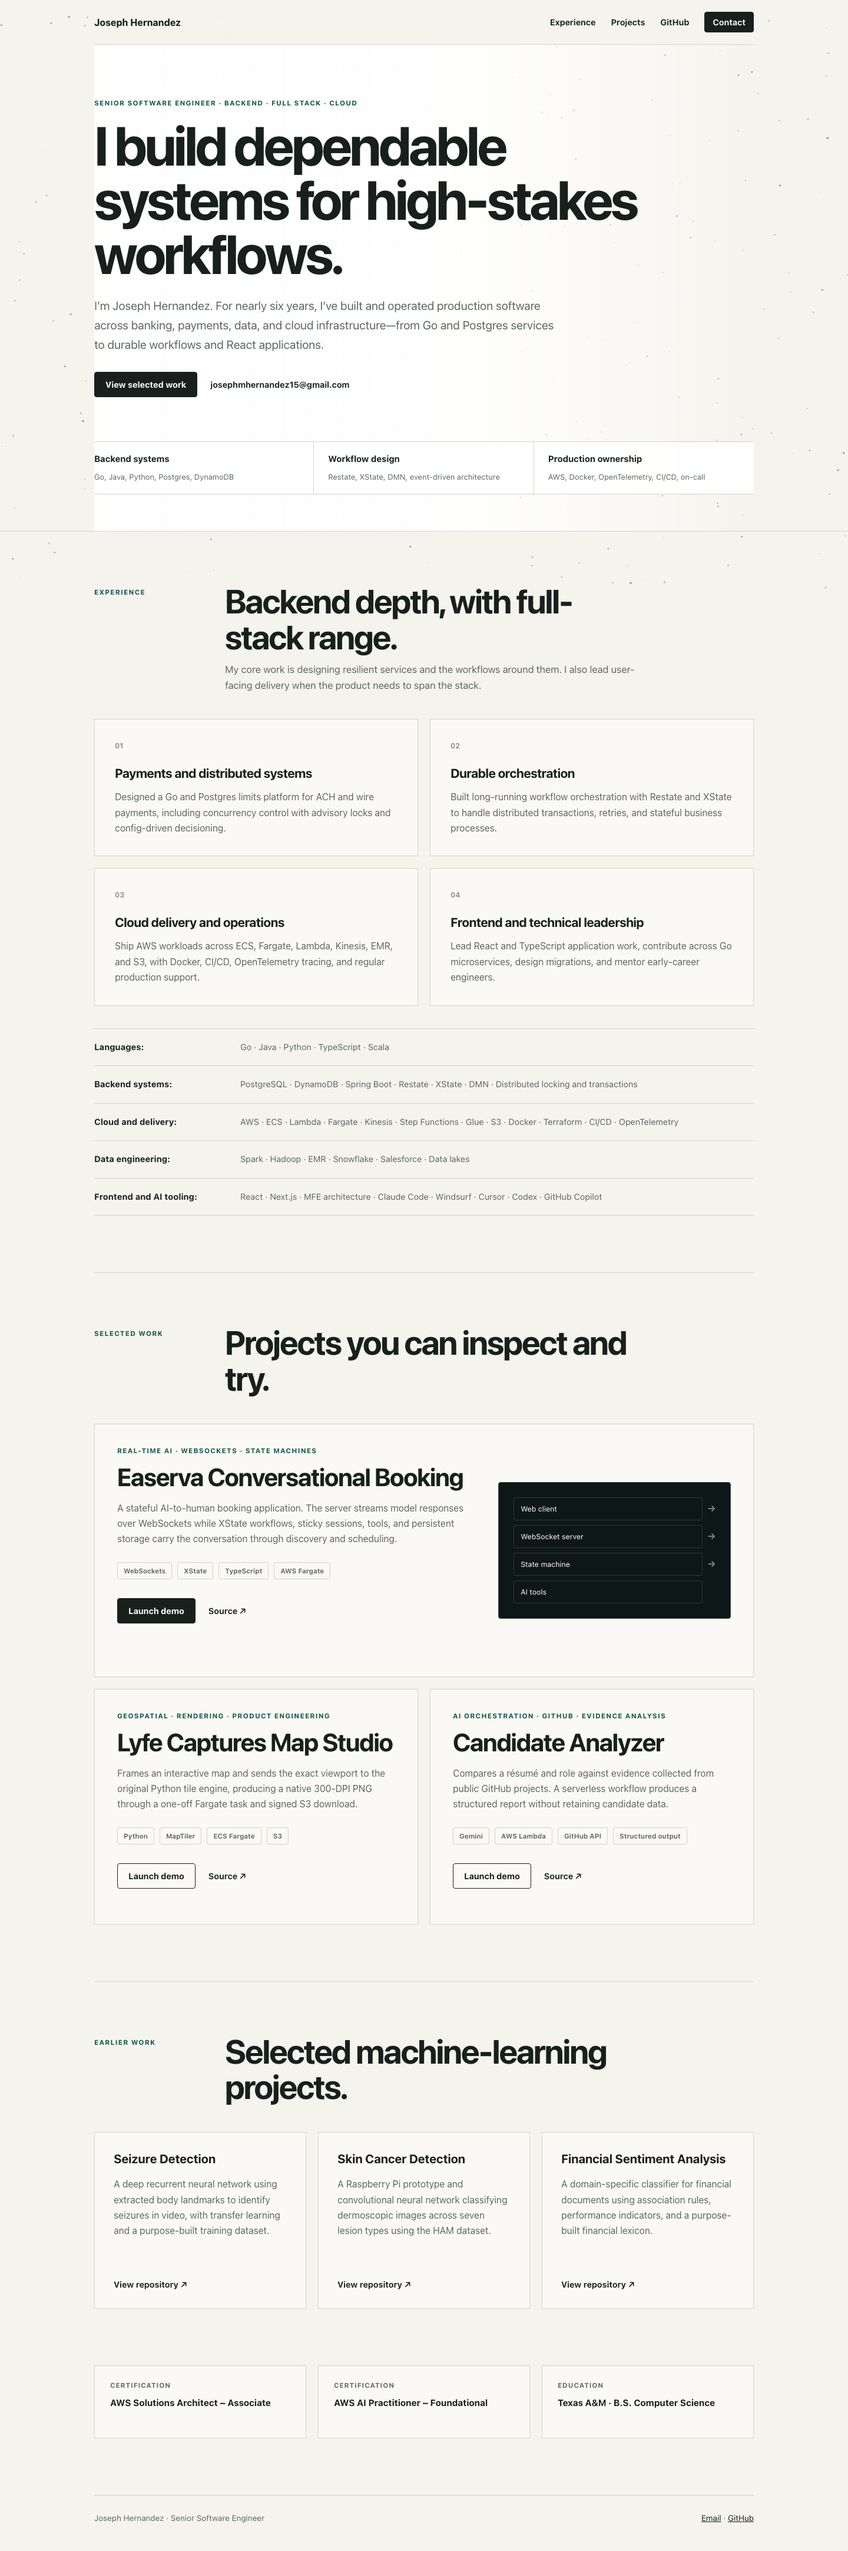
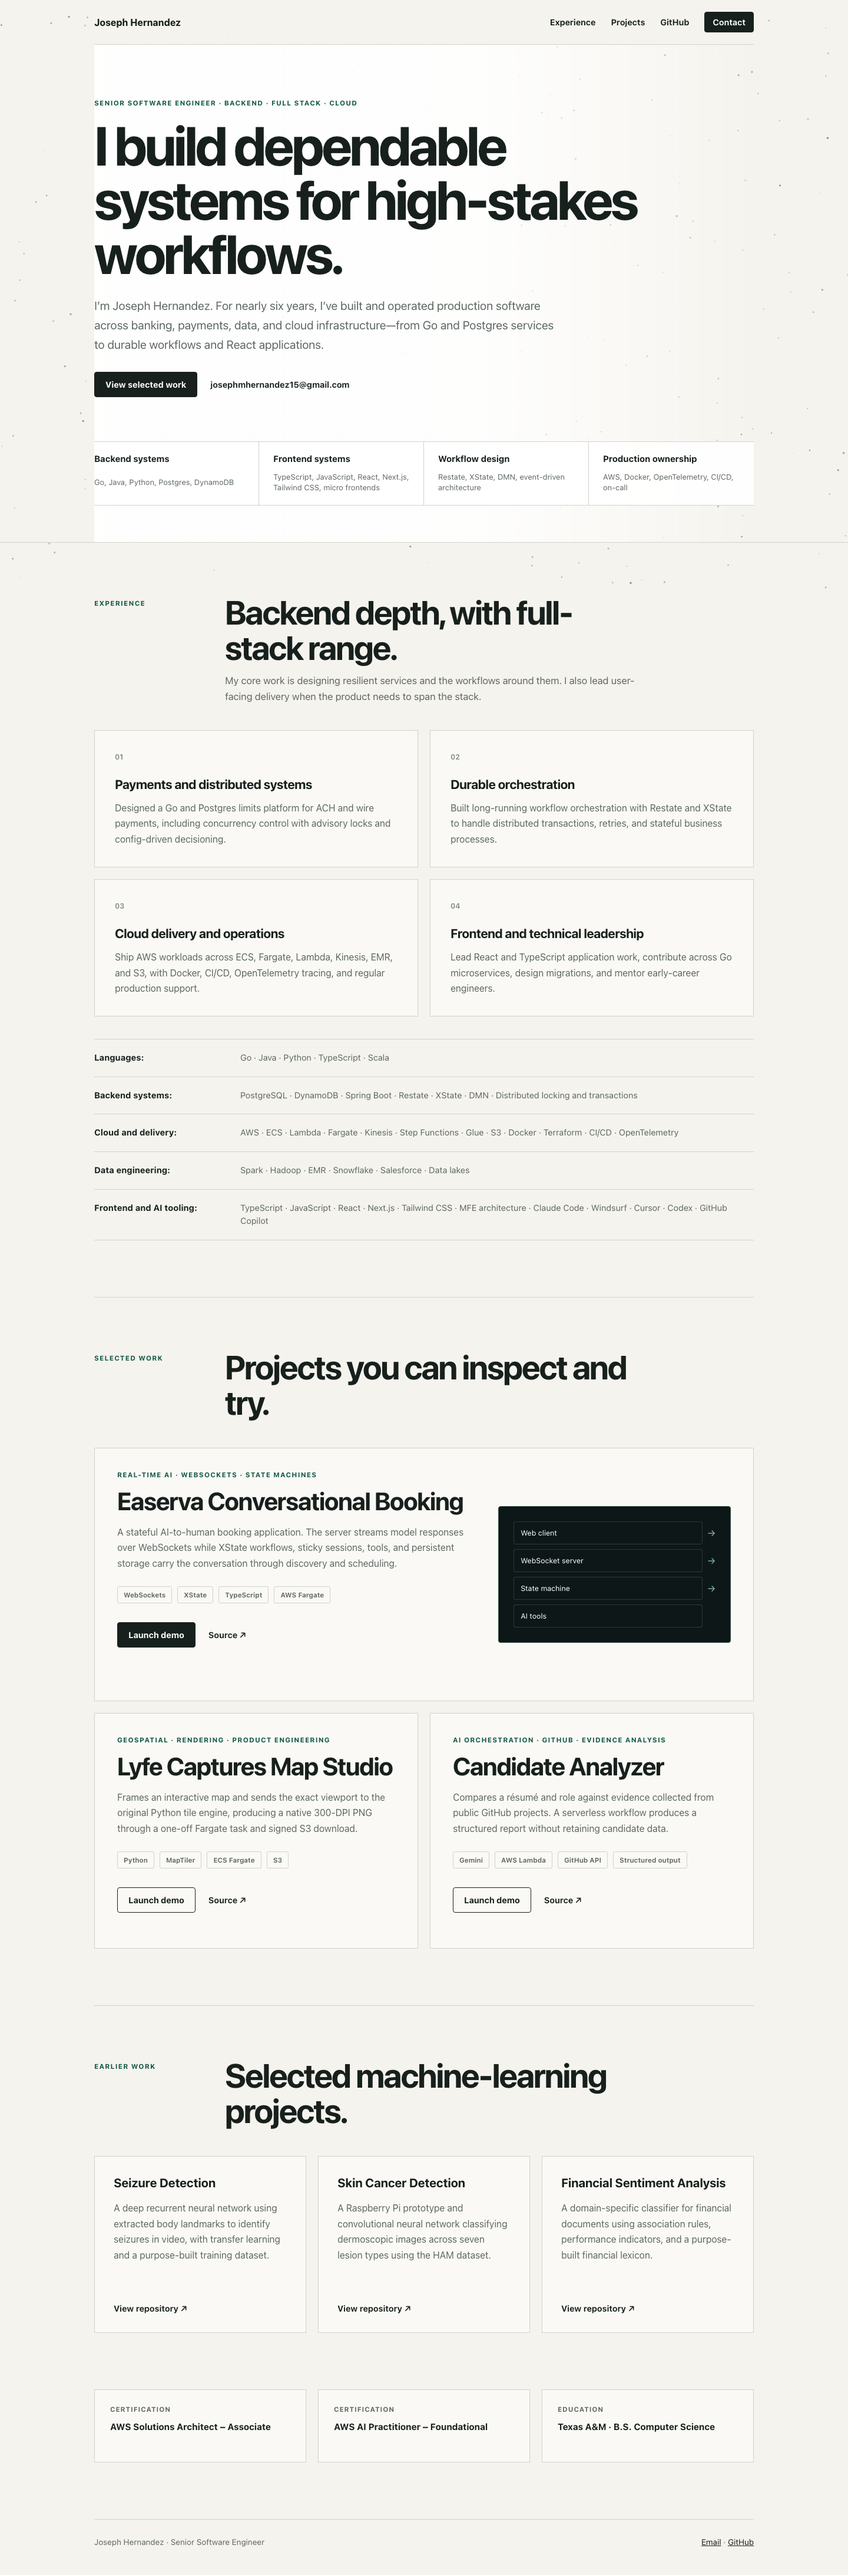
Add frontend systems to portfolio summary

diff --git a/index.html b/index.html
@@ -38,6 +38,7 @@
         </div>
         <div class="hero-facts" aria-label="Professional focus">
           <div><strong>Backend systems</strong><span>Go, Java, Python, Postgres, DynamoDB</span></div>
+          <div><strong>Frontend systems</strong><span>TypeScript, JavaScript, React, Next.js, Tailwind CSS, micro frontends</span></div>
           <div><strong>Workflow design</strong><span>Restate, XState, DMN, event-driven architecture</span></div>
           <div><strong>Production ownership</strong><span>AWS, Docker, OpenTelemetry, CI/CD, on-call</span></div>
         </div>
@@ -63,7 +64,7 @@
         <div><strong>Backend systems:</strong><span>PostgreSQL · DynamoDB · Spring Boot · Restate · XState · DMN · Distributed locking and transactions</span></div>
         <div><strong>Cloud and delivery:</strong><span>AWS · ECS · Lambda · Fargate · Kinesis · Step Functions · Glue · S3 · Docker · Terraform · CI/CD · OpenTelemetry</span></div>
         <div><strong>Data engineering:</strong><span>Spark · Hadoop · EMR · Snowflake · Salesforce · Data lakes</span></div>
-        <div><strong>Frontend and AI tooling:</strong><span>React · Next.js · MFE architecture · Claude Code · Windsurf · Cursor · Codex · GitHub Copilot</span></div>
+        <div><strong>Frontend and AI tooling:</strong><span>TypeScript · JavaScript · React · Next.js · Tailwind CSS · MFE architecture · Claude Code · Windsurf · Cursor · Codex · GitHub Copilot</span></div>
       </div>
     </section>
 

diff --git a/assets/site-tuning.css b/assets/site-tuning.css
@@ -53,6 +53,7 @@ footer {
 }
 
 .hero-facts {
+  grid-template-columns: repeat(4, minmax(0, 1fr));
   border-color: var(--line);
   background: #fffffff0;
 }
@@ -227,6 +228,7 @@ footer {
   }
 
   .hero-facts {
+    grid-template-columns: 1fr;
     margin-top: 54px;
     gap: 14px;
     border: 0;
